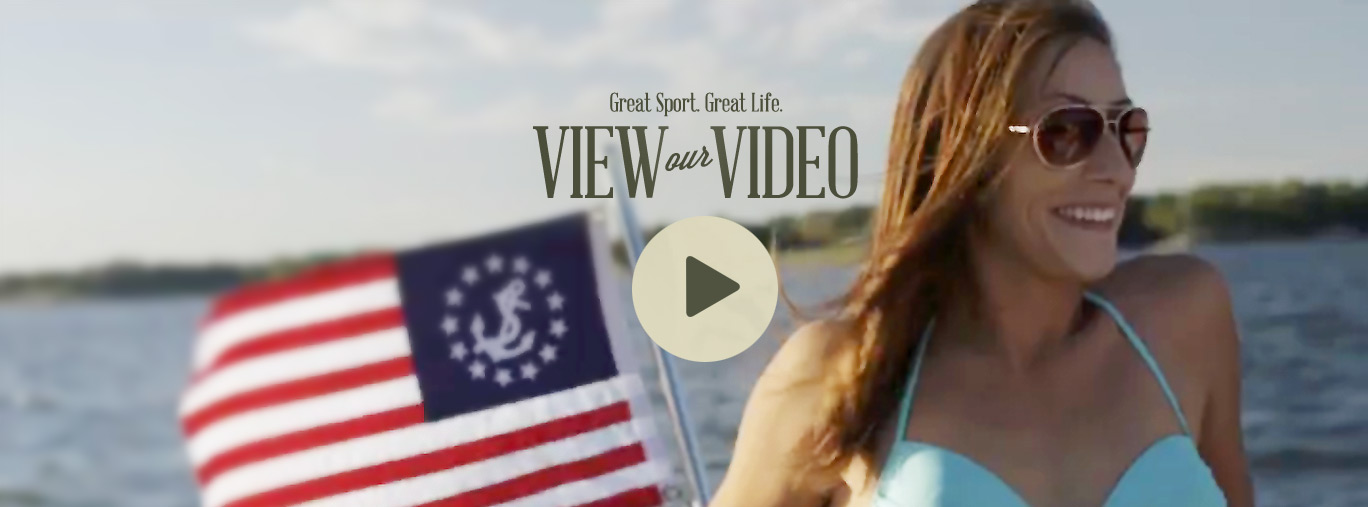
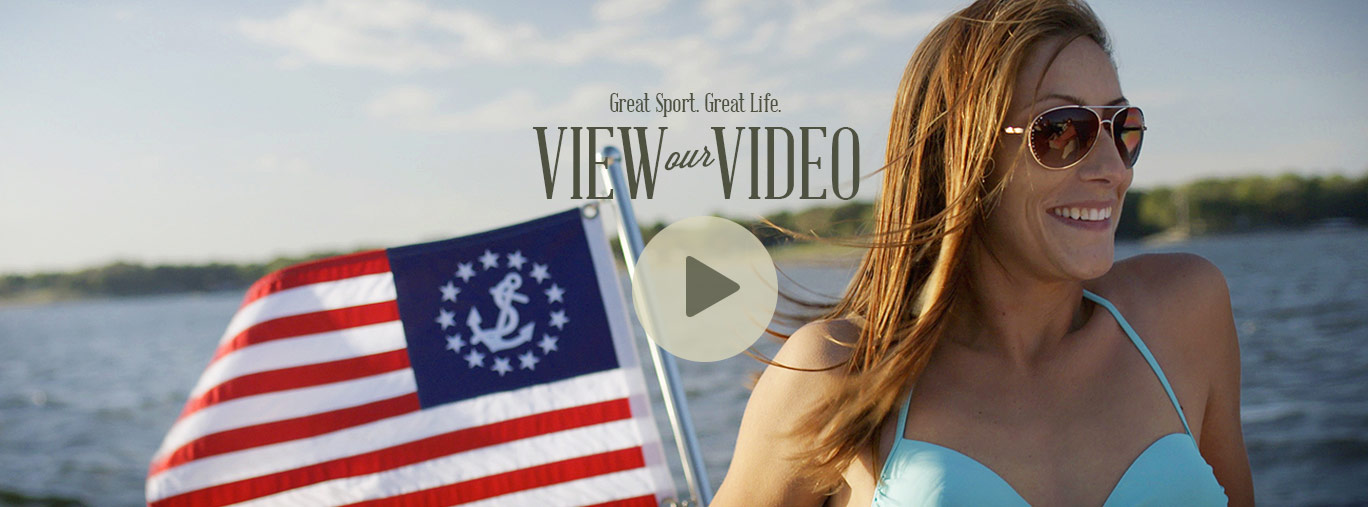
add new images and videos

diff --git a/index.html b/index.html
@@ -29,7 +29,7 @@
 							<li><a href="http://shangrilaok.com/golf-club/the-legends/">the legends</a></li>
 							<li><a href="http://shangrilaok.com/golf-club/book-a-tee-time/">book a tee time</a></li>
 							<li><a href="http://shangrilaok.com/golf-club/golf-instruction/">golf instruction</a></li>
-							<li><a href="http://shangrilaok.com/golf-club/results/">results</a></li>
+							<li><a href="http://shangrilaok.com/golf-club/events-results/">events & results</a></li>
 							<li><a href="http://shangrilaok.com/golf-club/post-a-score/">post a score</a></li>
 							<li><a href="http://shangrilaok.com/golf-club/meet-the-staff/">meet the staff</a></li>
 							<li><a href="http://shangrilaok.com/golf-club/rates/">rates & packages</a></li>
@@ -102,7 +102,7 @@
 				<!--header-->
 				<div class="header">
 					<div class="owl-carousel one">
-                        <div class="item"><a class="popup-youtube" href="http://www.youtube.com/watch?v=sMxy4NF0AIY"><img src="img/slide6.jpg"/></a></div>
+                        <div class="item"><a class="popup-youtube" href="http://www.youtube.com/watch?v=63wXDyYKNAE"><img src="img/boat1-playpen.jpg"/></a></div>
                         <div class="item"><img src="img/slide1.jpg"/></div>
 						<div class="item"><img src="img/slide2.jpg"/></div>
 						<div class="item"><img src="img/slide3.jpg"/></div>
@@ -211,6 +211,9 @@
                             <a href="http://shangrilamarina.net" class="button">learn more</a>
 						</div>
 					</div>
+				</div>
+				<div class="section noselect" style="height: 480px;">
+					<a class="popup-youtube noselect" href="http://www.youtube.com/watch?v=N30F-NMKcCA"><img src="img/fire-playpen.jpg"/></a>
 				</div>
 				<!--section4-->
 				<div class="section4">

diff --git a/css/stylesheet.css b/css/stylesheet.css
@@ -124,6 +124,16 @@ body { background-color: transparent; font-family: 'lincoln';  }
 .section6 .right { display: inline-block; width: 50%; vertical-align: top; padding: 4px 80px 0px; text-align: center; }
 .section6 .right a:hover { cursor: text; }
 
+.noselect {
+    -webkit-touch-callout: none; /* iOS Safari */
+    -webkit-user-select: none;   /* Chrome/Safari/Opera */
+    -khtml-user-select: none;    /* Konqueror */
+    -moz-user-select: none;      /* Firefox */
+    -ms-user-select: none;       /* Internet Explorer/Edge */
+    user-select: none;           /* Non-prefixed version, currently
+                                  not supported by any browser */
+}
+
 /**
  * Simple fade transition,
  */
